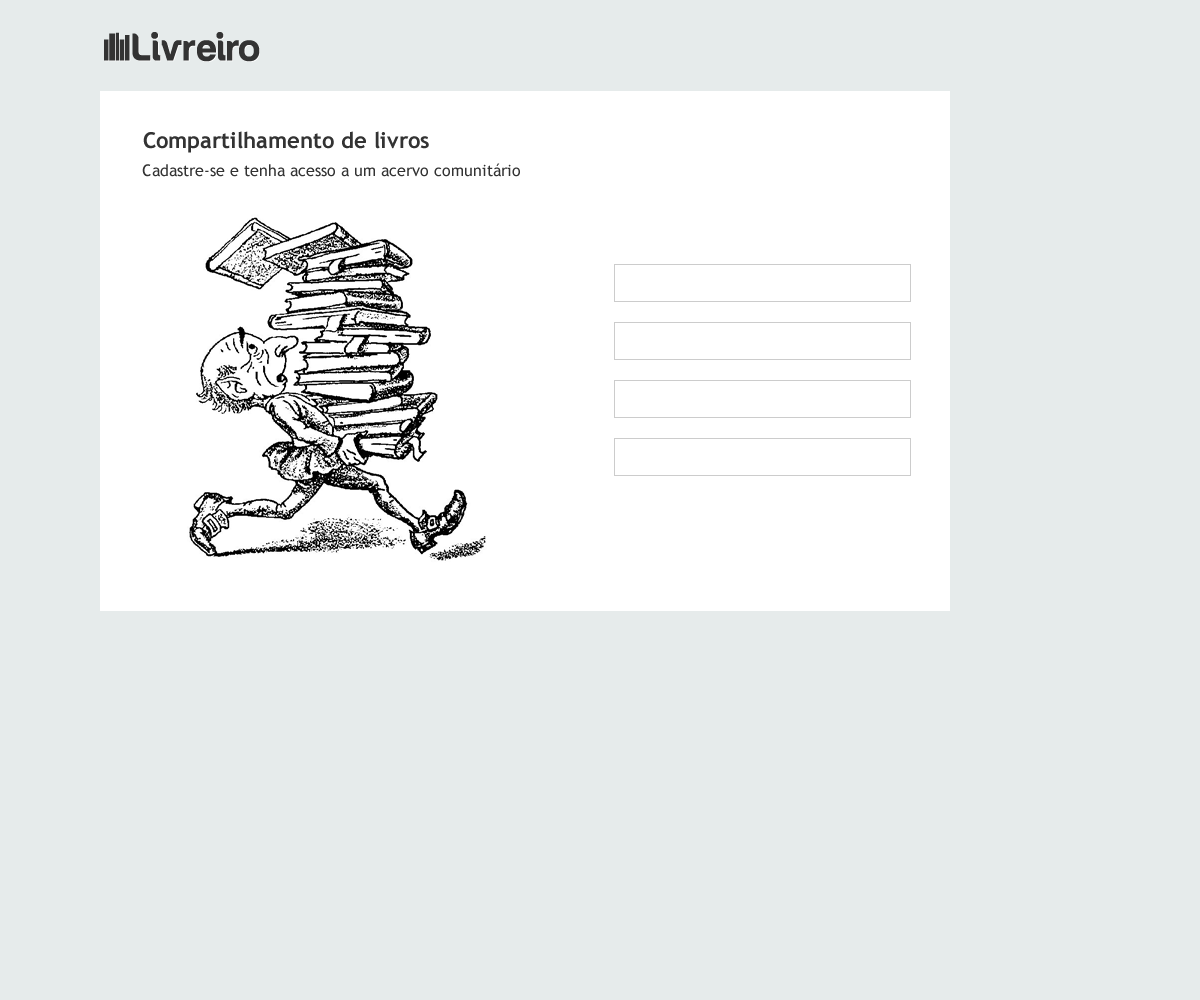
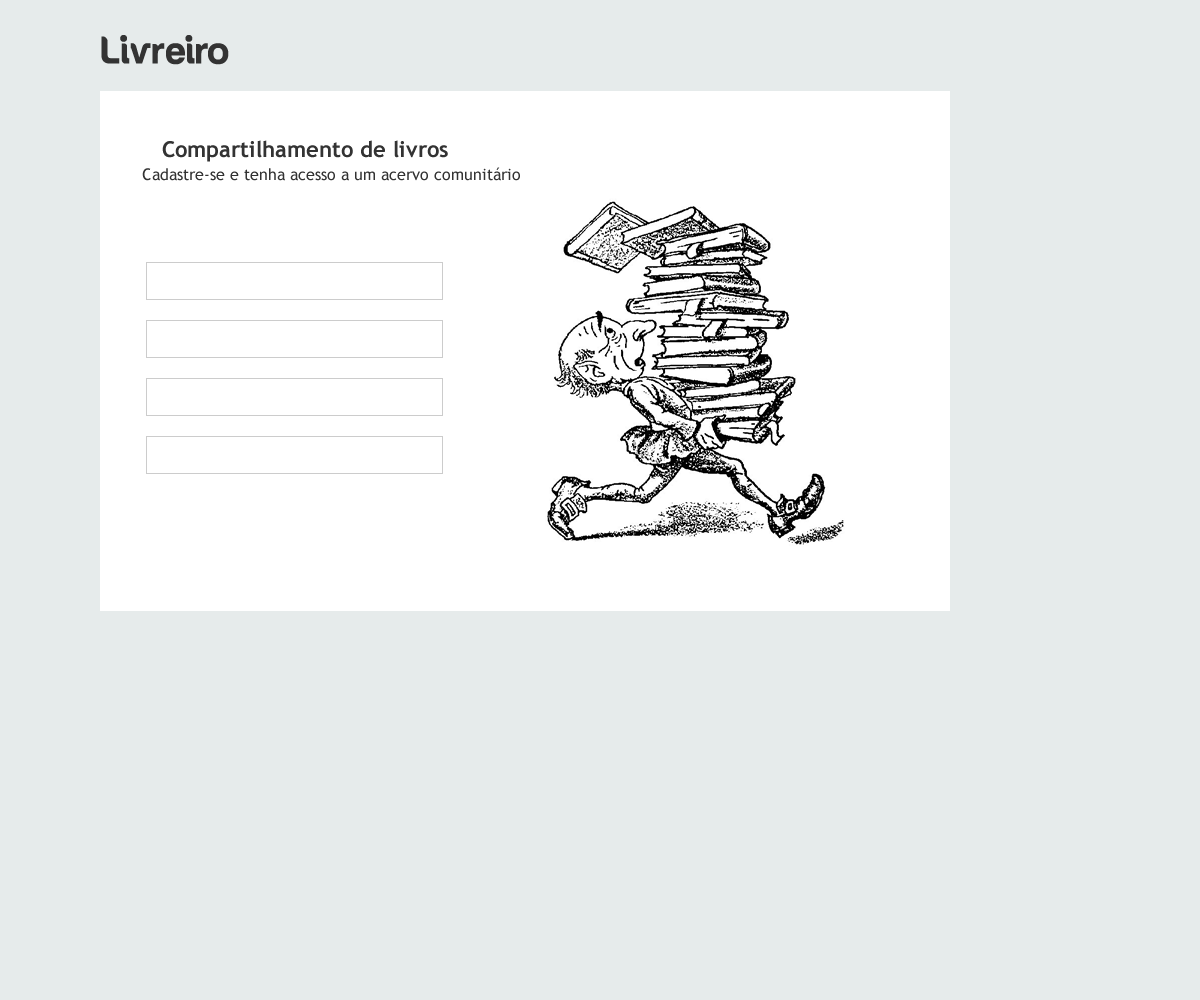
primeira versao do layout

diff --git a/public/stylesheets/style.css b/public/stylesheets/style.css
@@ -1,0 +1,125 @@
+body{
+	background-color:#E6EBEB;
+	padding:0 0 30px;
+	font-family:Tahoma, Arial, Verdana;
+	color:#333;
+}
+
+a{
+	color:#07C;
+}
+
+a:visited{
+	
+}
+
+#header{
+	width:850px;
+	margin:0 auto;
+	height:80px;
+}
+
+#main-content{
+	background-color:#FFF;
+	width:750px;
+	margin:0 auto;
+	padding:50px;
+}
+
+/*logo*/
+
+#header a.logo{
+	float:left;
+	display:block;
+	overflow:hidden;
+	text-indent:-9999px;
+	background:url(../images/logo-livreiro.png) no-repeat;
+	width:185px;
+	height:42px;
+	margin:25px 0 0;
+}
+
+/*menu*/
+
+.menu{
+	float:right;
+	font-size:.8em;
+	text-align:right;
+	margin:10px 0 0;
+}
+
+.welcome{
+	margin:0 0 15px;
+}
+
+#signin,
+#signup,
+#forgot{
+	width:85%;
+	margin:0 auto;
+	min-height:325px;
+	background:url(../images/desenho-livreiro.gif) no-repeat right center;
+}
+
+#main-content h1{
+	letter-spacing:-1px;
+	font-size:1.5em;
+	margin:0 0 5px;
+}
+
+#main-content h2{
+	font-size:1em;
+	font-weight:normal;
+	margin:0 0 5px;
+}
+
+#main-content a{
+	font-size:.8em;
+}
+
+form{
+	margin:15px 0 30px;
+}
+
+form label{
+	font-size:.8em;
+	letter-spacing:-.5px;
+}
+
+form p{
+	margin:5px 0;
+}
+
+table{
+	margin:15px 0;
+	width:100%;
+	background-color:#E6EBEB;
+	font-size:.8em;
+}
+
+table th{
+	background-color:#E6EBEB;
+	padding:5px;	
+	text-align:left;
+}
+
+table td{
+	background-color:#FFF;
+	padding:5px;
+}
+
+.field label{
+	display:block;
+	float:left;
+	clear:both;
+}
+
+.field input{
+	clear:both;
+	display:block;
+}
+
+.field label abbr{
+	float:right;
+}
+

diff --git a/public/stylesheets/scaffold.css b/public/stylesheets/scaffold.css
@@ -1,4 +1,4 @@
-body { background-color: #fff; color: #333; }
+/*body { background-color: #fff; color: #333; }
 
 body, p, ol, ul, td {
   font-family: verdana, arial, helvetica, sans-serif;
@@ -54,3 +54,4 @@ div.field, div.actions {
   font-size: 12px;
   list-style: square;
 }
+*/
